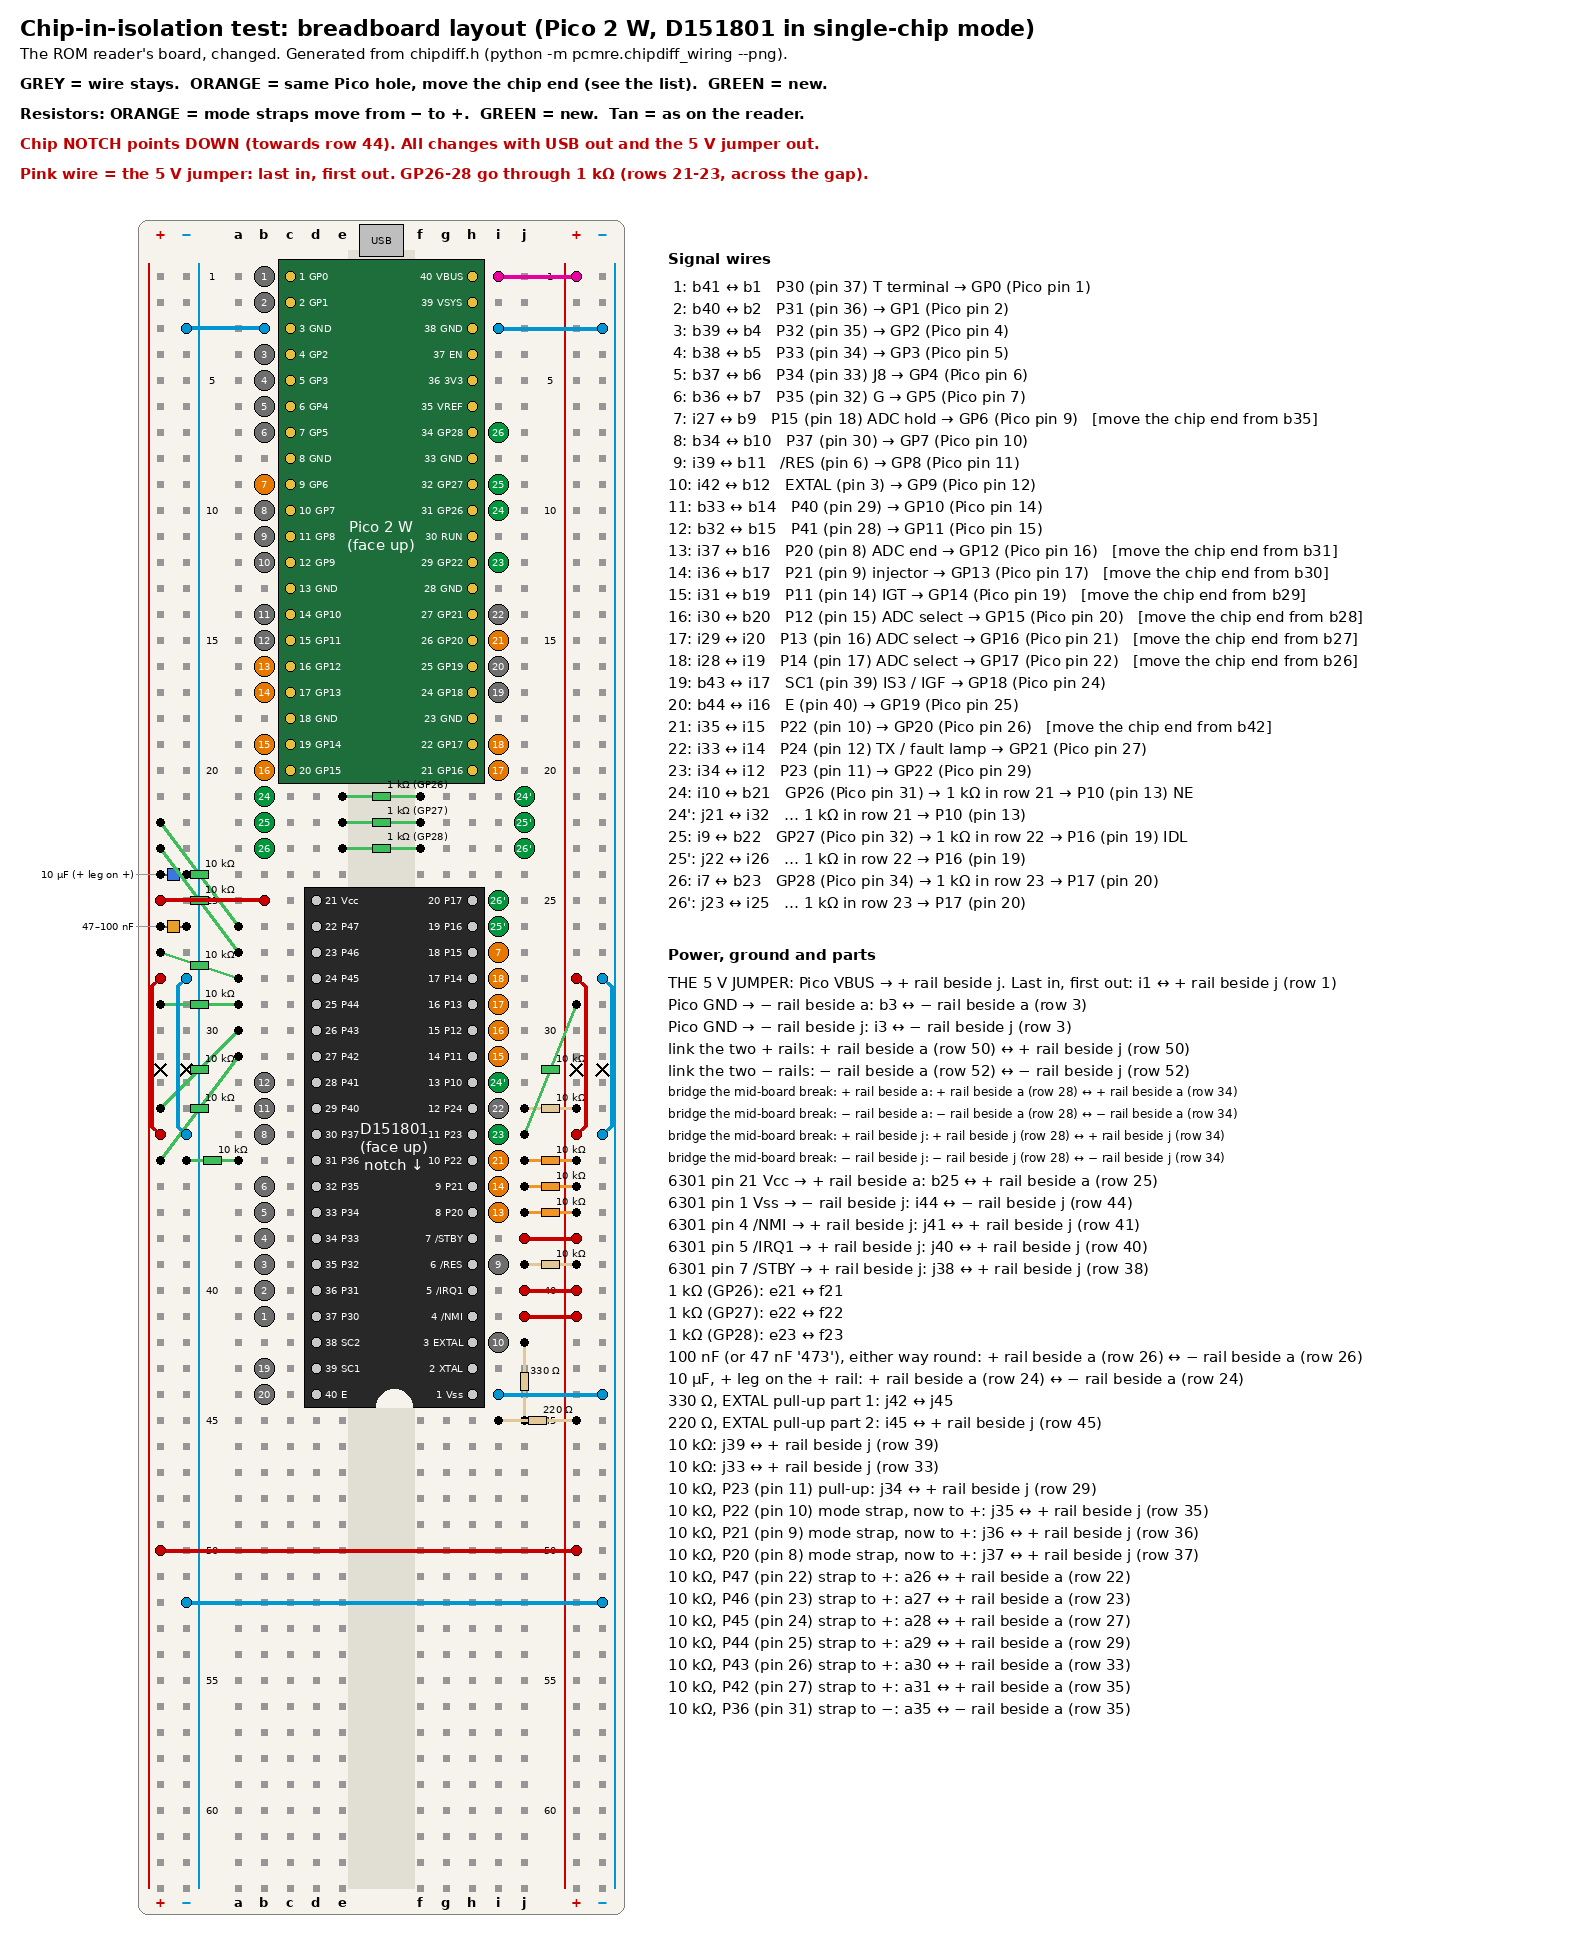
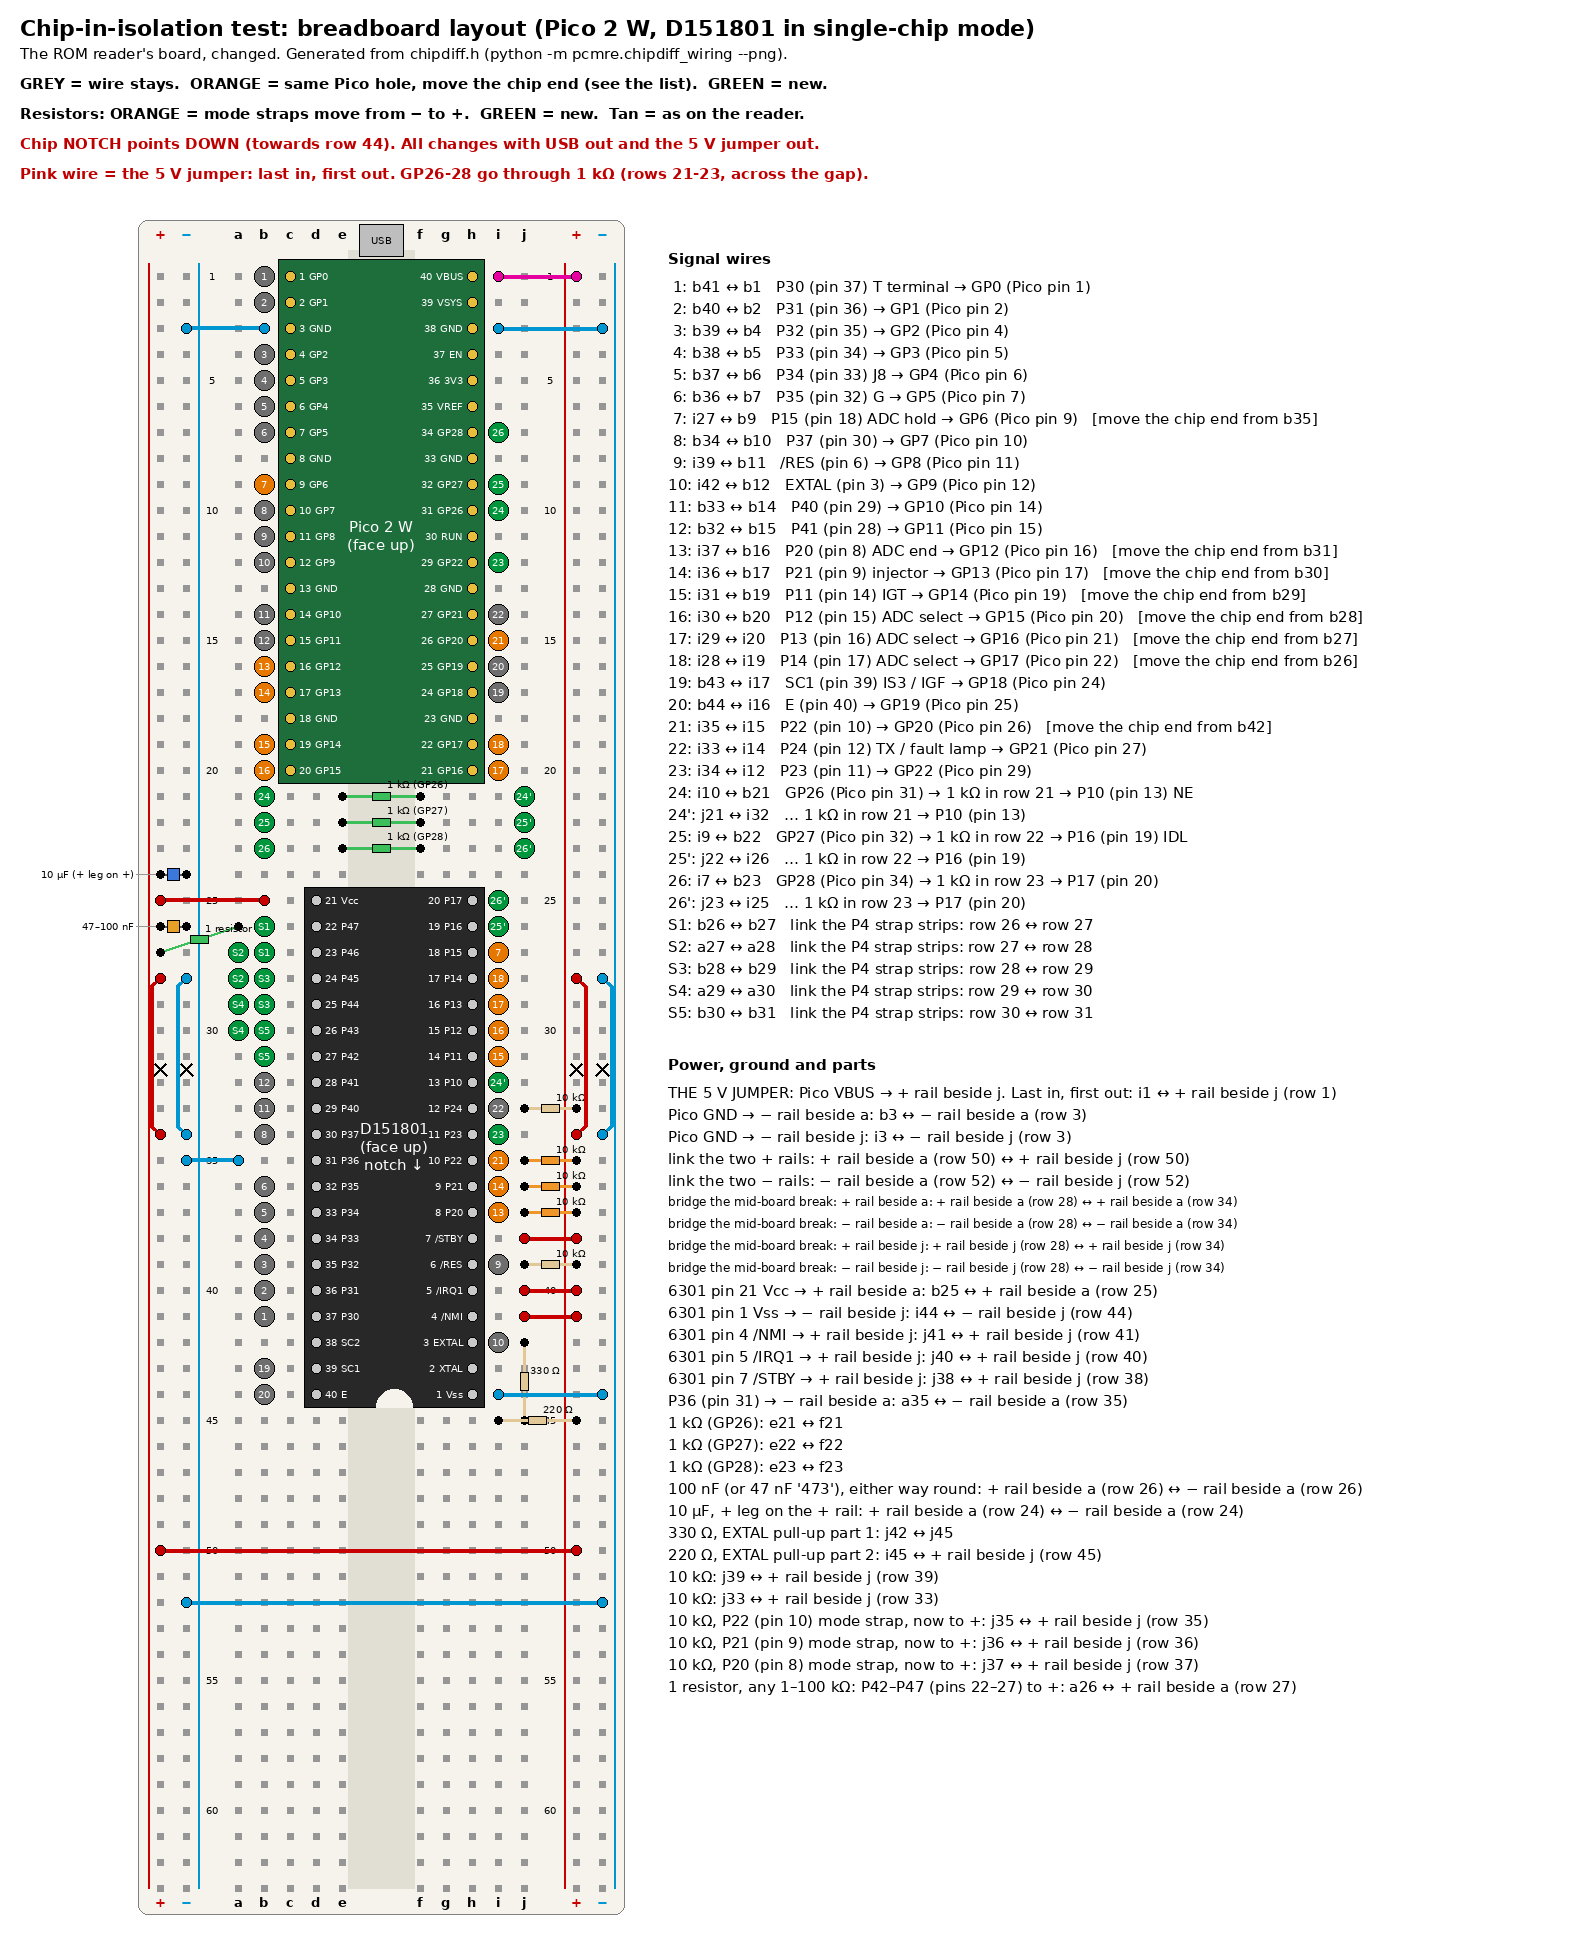
Chip-in-isolation test: fewer parts on the breadboard
P42-P47 (input only, DDR4 = $03) share one pull-up through five short
jumpers; P36 (input only) is a plain wire to ground; P23 needs no
resistor (the Pico's own pull-up keeps it high at reset). The firmware's
mode-strap check now switches the Pico pull-up off and pulses the pin, so
a missing P21/P22 strap is still caught.

Claude-Session: https://claude.ai/code/session_012woojD6NXFMVtqkWD6Vx8o

Changed region(s): [[0.4011, 0.4683, 0.8023, 0.8741], [0.0926, 0.4371, 0.1851, 0.5931], [0.3394, 0.5307, 0.3703, 0.5619]]

diff --git a/analysis/pcmre/chipdiff_wiring.py b/analysis/pcmre/chipdiff_wiring.py
@@ -34,10 +34,14 @@ DIP7 = {
 }
 SERIES_ROWS = {26: 21, 27: 22, 28: 23}  # GP26-28 (ADC pins, not 5 V tolerant): 1 kΩ across the gap in this row
 RAIL_BREAK = range(30, 33)  # rail holes left alone where the strips usually break
-STRAPS_HIGH = (22, 23, 24, 25, 26, 27)  # P47-P42: 10 kΩ to + (the simulator's default level)
-STRAP_LOW = 31  # P36: 10 kΩ to −
-MODE_PINS = (8, 9, 10)  # P20-P22: 10 kΩ to + (mode 7), were to − (mode 0) for the reader
-PULLUP_NEW = 11  # P23: 10 kΩ to + (serial link off)
+# P47-P42 are inputs only (the ROM writes DDR4 = $03): short jumpers join their strips and ONE
+# resistor (any value 1-100 kΩ) pulls them all high, the simulator's default level. The resistor
+# (not a bare wire) limits the current if the chip were ever strapped into a bus mode by mistake.
+STRAPS_HIGH = (22, 23, 24, 25, 26, 27)
+STRAP_LOW = 31  # P36, input only (DDR3 = $02): a plain wire to −
+MODE_PINS = (8, 9, 10)  # P20-P22: the reader's three 10 kΩ, moved from − to + (mode 7)
+# P23 (pin 11) needs no resistor: the firmware enables the Pico's own pull-up on GP22, so the chip
+# reads it high at reset and the serial link stays off.
 
 KEEP, MOVE, NEW = "keep", "MOVE", "NEW"
 COLOUR = {KEEP: (110, 110, 110), MOVE: (230, 120, 0), NEW: (0, 150, 60)}
@@ -129,12 +133,21 @@ def layout() -> tuple[list[tuple[str, str, str, str]], list[tuple[str, str, str]
             used.add(W._rail(rail, r))
             status[lab] = st
 
-    to_rail("j+", [*MODE_PINS, PULLUP_NEW], 1,
-            lambda p: f"10 kΩ, {DIP7[p]} (pin {p}) " + ("pull-up" if p == PULLUP_NEW else "mode strap, now to +"),
-            MOVE)  # fmt: skip
-    status[f"10 kΩ, {DIP7[PULLUP_NEW]} (pin {PULLUP_NEW}) pull-up"] = NEW
-    to_rail("a+", list(STRAPS_HIGH), 2, lambda p: f"10 kΩ, {DIP7[p]} (pin {p}) strap to +", NEW)
-    to_rail("a-", [STRAP_LOW], 2, lambda p: f"10 kΩ, {DIP7[p]} (pin {p}) strap to −", NEW)
+    to_rail("j+", list(MODE_PINS), 1, lambda p: f"10 kΩ, {DIP7[p]} (pin {p}) mode strap, now to +", MOVE)
+
+    # P47-P42: a zigzag of short jumpers (b, a, b, a, b) joins the six strips; one resistor to +
+    rows = [W.chip_hole(p)[1] for p in sorted(STRAPS_HIGH)]
+    for i, (r0, r1) in enumerate(itertools.pairwise(rows)):
+        col = "ba"[i % 2]
+        tag = f"S{i + 1}"
+        wires.append((tag, f"{col}{r0}", f"{col}{r1}", f"link the P4 strap strips: row {r0} ↔ row {r1}"))
+        status[tag] = NEW
+    lab = "1 resistor, any 1–100 kΩ: P42–P47 (pins 22–27) to +"
+    to_rail("a+", [STRAPS_HIGH[0]], 2, lambda p: lab, NEW)
+    # P36: a plain wire to −
+    hole = W._free(W.chip_hole(STRAP_LOW), 2)
+    wires.append(("P36", hole, W._rail("a-", W._row(hole)), f"{DIP7[STRAP_LOW]} (pin {STRAP_LOW}) → − rail beside a"))
+    status["P36"] = NEW
     return wires, parts, status
 
 
@@ -142,7 +155,7 @@ def table() -> str:
     wires, parts, status = layout()
     rows = ["| Wire | Change | From | To | What |", "|---|---|---|---|---|"]
     rows += [f"| {t} | {status[t]} | {W.hole_name(a)} | {W.hole_name(b)} | {w} |" for t, a, b, w in wires
-             if not W.is_rail(b)]  # fmt: skip
+             if not W.is_rail(b) or status.get(t) == NEW]  # fmt: skip
     rows += ["", "| Part | Change | From | To |", "|---|---|---|---|"]
     rows += [f"| {p} | {status.get(p, KEEP)} | {W.hole_name(a)} | {W.hole_name(b)} |" for p, a, b in parts]
     return "\n".join(rows)

diff --git a/tests/test_chipdiff_wiring.py b/tests/test_chipdiff_wiring.py
@@ -50,14 +50,21 @@ def test_holes_unique_and_free():
 
 
 def test_straps_and_pullups():
-    _, parts, _ = C.layout()
+    wires, parts, _ = C.layout()
     to = {a: b for _, a, b in parts}
-    for pin in (*C.MODE_PINS, C.PULLUP_NEW, *C.STRAPS_HIGH):
-        hole = W._free(W.chip_hole(pin), 1 if pin < 21 else 2)
-        assert to[hole].split("@")[0] in ("j+", "a+"), pin
-    assert to[W._free(W.chip_hole(C.STRAP_LOW), 2)].startswith("a-")
-    # the reader's mode straps to − are gone
-    assert not any(b.startswith("j-") for _, a, b in parts)
+    for pin in C.MODE_PINS:  # the reader's three mode straps, now to +
+        assert to[W._free(W.chip_hole(pin), 1)].startswith("j+"), pin
+    assert not any(b.startswith("j-") for _, a, b in parts)  # none left on −
+    # P42-P47: the six strips joined by jumpers, one resistor to +
+    rows = sorted(W.chip_hole(p)[1] for p in C.STRAPS_HIGH)
+    links = {(int(a[1:]), int(b[1:])) for t, a, b, _ in wires if t.startswith("S")}
+    assert links == set(zip(rows, rows[1:], strict=False))
+    assert [b for _, a, b in parts if a == W._free(W.chip_hole(C.STRAPS_HIGH[0]), 2)][0].startswith("a+")
+    # P36: a wire to −; no resistor on P23 (the Pico's pull-up)
+    p36 = next(w for w in wires if w[0] == "P36")
+    assert same_strip(p36[1], W.chip_hole(C.STRAP_LOW)) and p36[2].startswith("a-")
+    assert not any(same_strip(a, W.chip_hole(11)) for _, a, _ in parts)
+    assert sum("kΩ" in p and "1 kΩ" not in p for p, _, _ in parts) == 2 + 3 + 1  # /RES, P24; mode straps; P4x
 
 
 def test_only_moves_and_additions():

diff --git a/hardware/ecu-emu/chipdiff/main.c b/hardware/ecu-emu/chipdiff/main.c
@@ -145,6 +145,23 @@ static bool power_good(void) {
     return ok;
 }
 
+// A mode-strap pin (P21, P22; the chip holds them as inputs while /RES is low) with its 10k pull-up
+// to 5 V rises within microseconds after a brief pull low; without it the pin stays low. The
+// Pico's own pull-up is switched off for the test, so it cannot hide a missing strap.
+static bool strap_high(uint g) {
+    gpio_init(g);
+    gpio_disable_pulls(g);
+    gpio_set_drive_strength(g, GPIO_DRIVE_STRENGTH_2MA);
+    gpio_put(g, 0);
+    gpio_set_dir(g, GPIO_OUT);
+    sleep_us(10);
+    gpio_set_dir(g, GPIO_IN);
+    sleep_us(50);  // 10k x ~30 pF: under 1 us to rise
+    bool high = gpio_get(g);
+    gpio_pull_up(g);
+    return high;
+}
+
 // ---- the run ----------------------------------------------------------------------------
 
 static inline uint32_t dma_done(int ch) { return DMA_COUNT - (dma_hw->ch[ch].transfer_count & 0x0FFFFFFFu); }
@@ -152,8 +169,8 @@ static inline uint32_t dma_done(int ch) { return DMA_COUNT - (dma_hw->ch[ch].tra
 static void __not_in_flash_func(run)(uint32_t phases) {
     uint64_t total = (uint64_t)phases * REF_PHASE_US;
     if (!power_good()) return;
-    if (!gpio_get(13) || !gpio_get(20)) {
-        printf("ABORT: P21 (GP13) or P22 (GP20) reads low: the mode-strap pull-ups to 5 V are missing\n");
+    if (!strap_high(13) || !strap_high(20)) {
+        printf("ABORT: P21 (GP13) or P22 (GP20) has no pull-up to 5 V: check the mode straps (pins 9, 10)\n");
         return;
     }
     cd_init(&cd);

diff --git a/docs/hardware/chip_diff_test.md b/docs/hardware/chip_diff_test.md
@@ -60,9 +60,12 @@ Most existing wires therefore stay, and every reader GPIO is reused. The changes
 1. **Move 8 wire ends.** For GP6, GP12–GP17 and GP20 the Pico end stays where it is; only the chip end moves, from the old bus pin to its new port pin (orange in the picture, "MOVE" in the table).
 2. **Mode straps:** move the far end of the three 10 kΩ resistors on pins 8, 9 and 10 from the − rail to the + rail (mode 7 = HHH).
 3. **Add 4 signals** (green): GP22 to pin 11 (P23), and GP26–GP28 to pins 13, 19 and 20 (P10, P16, P17), each through a 1 kΩ that bridges the centre gap in rows 21–23. GP26–GP28 are the Pico's ADC pins and are **not 5 V tolerant**, so they only drive chip inputs, and only through 1 kΩ.
-4. **Add 8 resistors of 10 kΩ:**
-   - pin 11 (P23) pull-up to +, so the serial link stays off;
-   - pins 22–27 (P47–P42) to +, and pin 31 (P36) to −. These levels match the simulator's defaults.
+4. **Straps, almost no new parts:**
+   - pins 22–27 (P47–P42): join their six strips with five short jumpers, then **one** resistor (any value from 1 kΩ to 100 kΩ) to +. They are inputs only (the ROM sets DDR4 = `$03`), so one pull-up serves all six; the resistor rather than a bare wire limits the current if the chip were ever strapped into a bus mode by mistake.
+   - pin 31 (P36): a plain wire to − (input only, DDR3 = `$02`).
+   - pin 11 (P23): nothing. The firmware turns on the Pico's own pull-up on GP22, so the chip reads it high at reset and the serial link stays off.
+
+   These levels match the simulator's defaults.
 
 Unchanged: pin 1 GND; pins 21, 7 (STBY), 4 (NMI) and 5 (IRQ1) on the 5 V rail; 100 nF + 10 µF across pins 21/1; XTAL (pin 2) open.
 
@@ -93,15 +96,15 @@ Unchanged: pin 1 GND; pins 21, 7 (STBY), 4 (NMI) and 5 (IRQ1) on the 5 V rail; 1
 | 8 | P20 (ADC end, mode bit 0) | in | GP12 | New (was A10); 10 kΩ pull-up; the Pico holds it high through reset |
 | 9 | P21 (injector, mode bit 1) | out | GP13 | New (was A11); 10 kΩ pull-up |
 | 10 | P22 (mode bit 2) | out | GP20 | New (was R/W); 10 kΩ pull-up |
-| 11 | P23 | out | GP22 | New; 10 kΩ pull-up |
+| 11 | P23 | out | GP22 | New; the Pico's own pull-up keeps it high at reset |
 
-That is 26 GPIOs in all, defined once in [`chipdiff.h`](../../hardware/ecu-emu/chipdiff/chipdiff.h). **New parts:** three 1 kΩ resistors and eight 10 kΩ (the seven straps and the P23 pull-up); everything else is already on the board.
+That is 26 GPIOs in all, defined once in [`chipdiff.h`](../../hardware/ecu-emu/chipdiff/chipdiff.h). **New parts:** three 1 kΩ resistors and one more resistor of any value from 1 kΩ to 100 kΩ; everything else is already on the board or is wire.
 
 ### Breadboard layout
 
 ![Breadboard layout for the chip-in-isolation test](photos/chip_diff_test/breadboard_chipdiff.png)
 
-Grey wires stay as on the reader; orange ones keep their Pico hole and move their chip end; green ones are new. The left-hand straps run at a slant to the nearest free hole on the + rail, because the reader's capacitors and rail bridges already use some rail holes level with the chip.
+Grey wires stay as on the reader; orange ones keep their Pico hole and move their chip end; green ones are new. The jumpers S1–S5 zigzag between holes a and b to join pins 22–27; their single resistor goes from a26 to the + rail.
 
 <!-- generated: python -m pcmre.chipdiff_wiring; tests/test_chipdiff_wiring.py checks this table -->
 
@@ -136,6 +139,12 @@ Grey wires stay as on the reader; orange ones keep their Pico hole and move thei
 | 25' | NEW | j22 | i26 | … 1 kΩ in row 22 → P16 (pin 19) |
 | 26 | NEW | i7 | b23 | GP28 (Pico pin 34) → 1 kΩ in row 23 → P17 (pin 20) |
 | 26' | NEW | j23 | i25 | … 1 kΩ in row 23 → P17 (pin 20) |
+| S1 | NEW | b26 | b27 | link the P4 strap strips: row 26 ↔ row 27 |
+| S2 | NEW | a27 | a28 | link the P4 strap strips: row 27 ↔ row 28 |
+| S3 | NEW | b28 | b29 | link the P4 strap strips: row 28 ↔ row 29 |
+| S4 | NEW | a29 | a30 | link the P4 strap strips: row 29 ↔ row 30 |
+| S5 | NEW | b30 | b31 | link the P4 strap strips: row 30 ↔ row 31 |
+| P36 | NEW | a35 | − rail beside a (row 35) | P36 (pin 31) → − rail beside a |
 
 | Part | Change | From | To |
 |---|---|---|---|
@@ -148,17 +157,10 @@ Grey wires stay as on the reader; orange ones keep their Pico hole and move thei
 | 220 Ω, EXTAL pull-up part 2 | keep | i45 | + rail beside j (row 45) |
 | 10 kΩ | keep | j39 | + rail beside j (row 39) |
 | 10 kΩ | keep | j33 | + rail beside j (row 33) |
-| 10 kΩ, P23 (pin 11) pull-up | NEW | j34 | + rail beside j (row 29) |
 | 10 kΩ, P22 (pin 10) mode strap, now to + | MOVE | j35 | + rail beside j (row 35) |
 | 10 kΩ, P21 (pin 9) mode strap, now to + | MOVE | j36 | + rail beside j (row 36) |
 | 10 kΩ, P20 (pin 8) mode strap, now to + | MOVE | j37 | + rail beside j (row 37) |
-| 10 kΩ, P47 (pin 22) strap to + | NEW | a26 | + rail beside a (row 22) |
-| 10 kΩ, P46 (pin 23) strap to + | NEW | a27 | + rail beside a (row 23) |
-| 10 kΩ, P45 (pin 24) strap to + | NEW | a28 | + rail beside a (row 27) |
-| 10 kΩ, P44 (pin 25) strap to + | NEW | a29 | + rail beside a (row 29) |
-| 10 kΩ, P43 (pin 26) strap to + | NEW | a30 | + rail beside a (row 33) |
-| 10 kΩ, P42 (pin 27) strap to + | NEW | a31 | + rail beside a (row 35) |
-| 10 kΩ, P36 (pin 31) strap to − | NEW | a35 | − rail beside a (row 35) |
+| 1 resistor, any 1–100 kΩ: P42–P47 (pins 22–27) to + | NEW | a26 | + rail beside a (row 27) |
 
 ## Firmware and the PC tool
 
